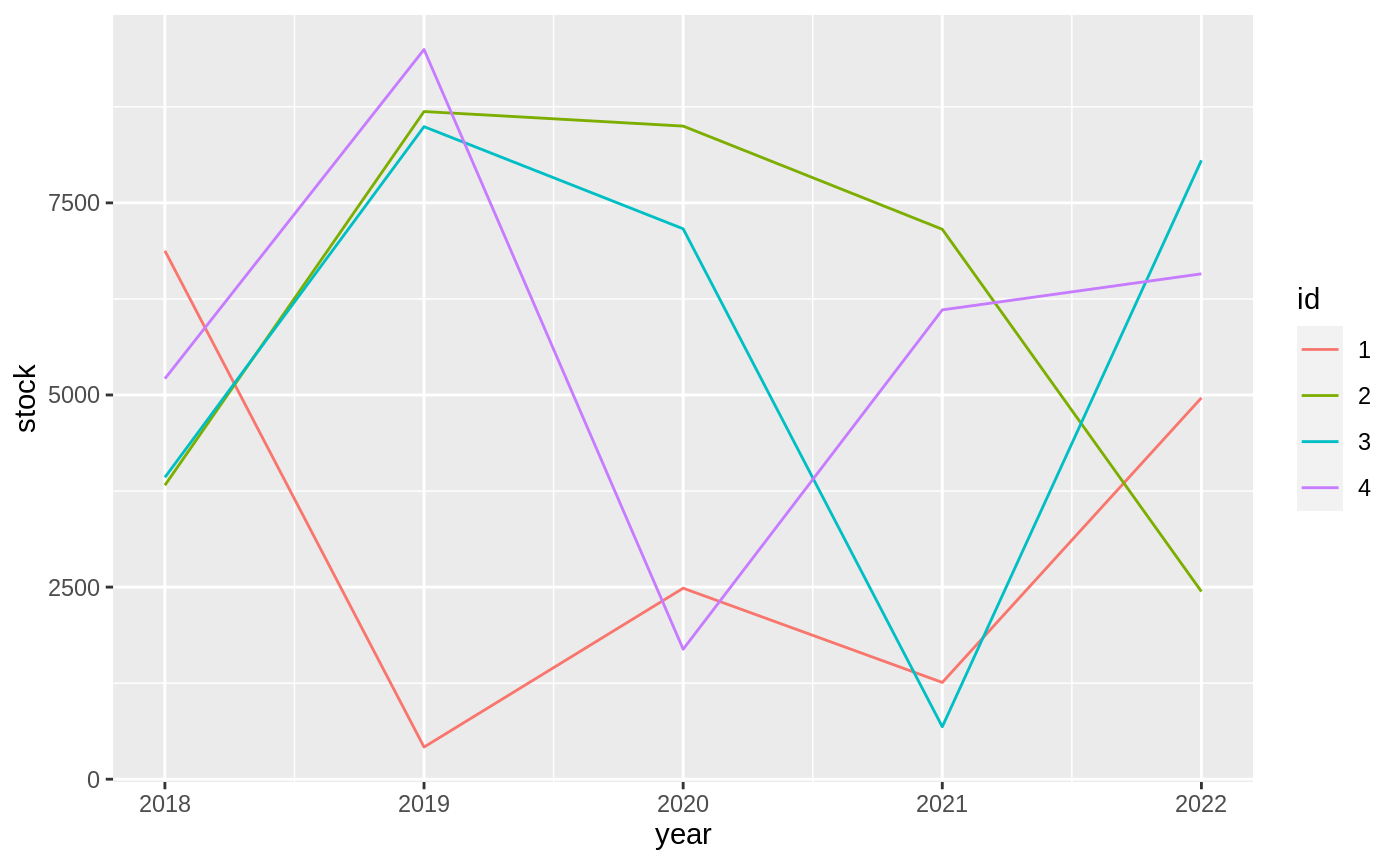
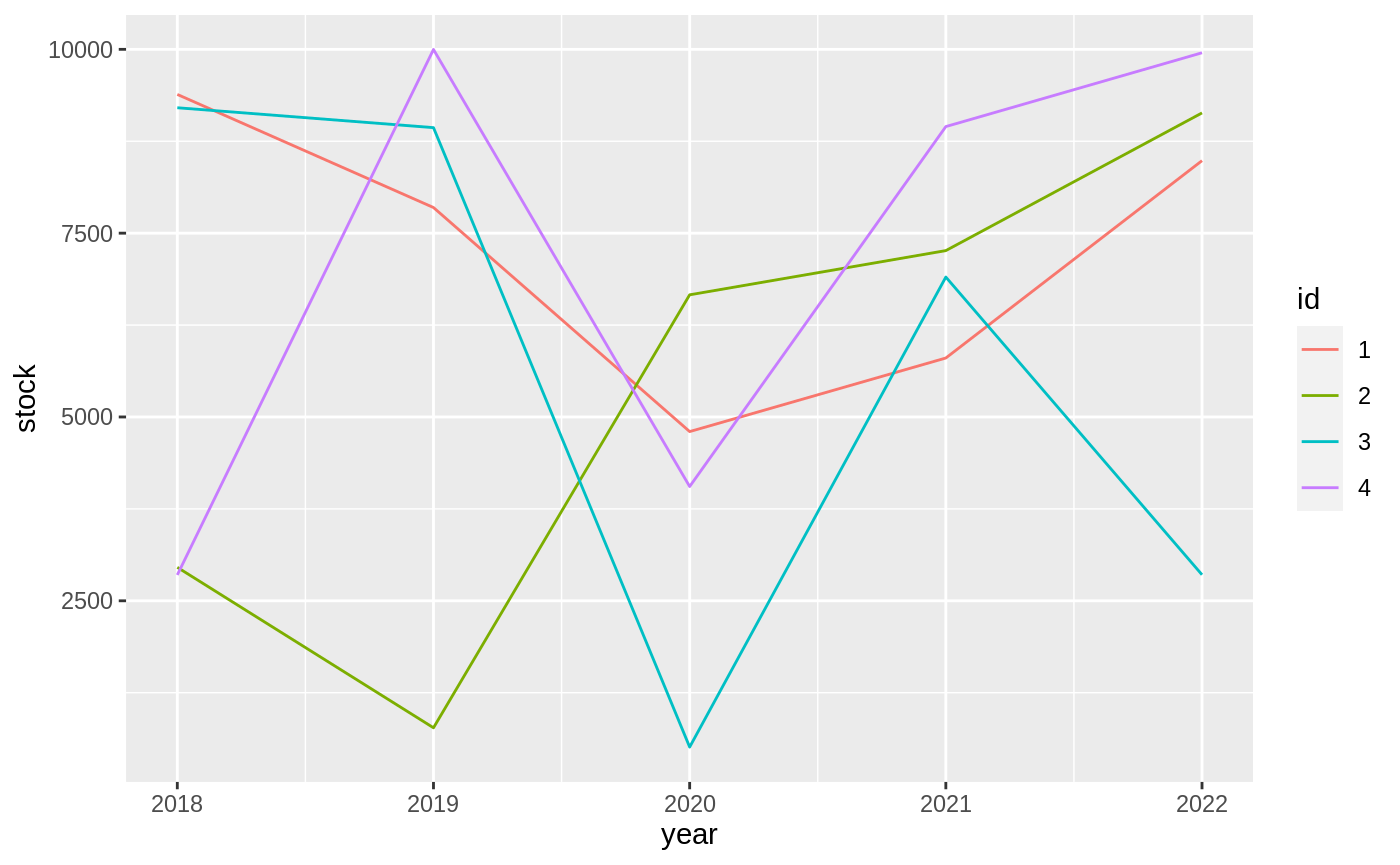
Built site for tibble: 3.0.4.9000@0775718

diff --git a/dev/articles/formats.html b/dev/articles/formats.html
@@ -221,10 +221,10 @@
 <span class="co">#&gt; # A tibble: 4 x 6</span>
 <span class="co">#&gt;   id       `2018`    `2019`    `2020`    `2021`    `2022`</span>
 <span class="co">#&gt;   &lt;fct&gt; &lt;dbl:fmt&gt; &lt;dbl:fmt&gt; &lt;dbl:fmt&gt; &lt;dbl:fmt&gt; &lt;dbl:fmt&gt;</span>
-<span class="co">#&gt; 1 1     $6,876.46   $418.27 $2,485.38 $1,259.02 $4,963.22</span>
-<span class="co">#&gt; 2 2     $3,825.28 $8,688.63 $8,498.96 $7,156.30 $2,442.04</span>
-<span class="co">#&gt; 3 3     $3,927.93 $8,491.54 $7,162.53   $682.55 $8,053.97</span>
-<span class="co">#&gt; 4 4     $5,212.09 $9,496.11 $1,691.39 $6,107.63 $6,576.90</span></code></pre></div>
+<span class="co">#&gt; 1 1     $9,386.70 $7,848.50 $4,801.62 $5,802.21 $8,486.21</span>
+<span class="co">#&gt; 2 2     $2,955.06   $773.20 $6,661.64 $7,263.02 $9,135.57</span>
+<span class="co">#&gt; 3 3     $9,205.72 $8,935.08   $511.01 $6,902.99 $2,854.26</span>
+<span class="co">#&gt; 4 4     $2,851.74 $9,998.04 $4,054.39 $8,949.80 $9,953.54</span></code></pre></div>
 <p>For ggplot2 we need to do <a href="https://github.com/tidyverse/ggplot2/pull/4065">some work</a> to show apply the formatting to the scales.</p>
 <div class="sourceCode" id="cb6"><pre class="downlit sourceCode r">
 <code class="sourceCode R"><span class="kw"><a href="https://rdrr.io/r/base/library.html">library</a></span><span class="op">(</span><span class="va"><a href="http://ggplot2.tidyverse.org">ggplot2</a></span><span class="op">)</span>
@@ -235,10 +235,10 @@
   <span class="fu"><a href="https://ggplot2.tidyverse.org/reference/geom_path.html">geom_line</a></span><span class="op">(</span><span class="op">)</span></code></pre></div>
 <p><img src="formats_files/figure-html/unnamed-chunk-7-1.png" width="700"></p>
 <p>It pays off to specify formatting very early in the process. The diagram below shows the principal stages of data analysis and exploration from “R for data science”.</p>
-<div id="htmlwidget-c26b7b0fcee28b90d5e2" style="width:700px;height:432.632880098888px;" class="DiagrammeR html-widget"></div>
-<script type="application/json" data-for="htmlwidget-c26b7b0fcee28b90d5e2">{"x":{"diagram":"graph TD\n  Import --> Tidy\n  Tidy --> Transform\n  Transform --> Visualize\n  Visualize --> Communicate\n  Visualize --> Model\n  Model -.-> Transform"},"evals":[],"jsHooks":[]}</script><p>The subsequent diagram adds data formats, communication options, and explicit data formatting. The original r4ds transitions are highlighted in bold. There are two principal options where to apply formatting for results: right before communicating them, or right after importing.</p>
-<div id="htmlwidget-74d3e23187afde308fda" style="width:700px;height:432.632880098888px;" class="DiagrammeR html-widget"></div>
-<script type="application/json" data-for="htmlwidget-74d3e23187afde308fda">{"x":{"diagram":"graph TD\n  .csv --> Import\n  API --> Import\n  DBI --> Import\n  dbplyr --> Import\n  Import -.-> Format[Format for analysis]\n  Format -.-> Tidy\n\n  subgraph r4ds\n  Import ==> Tidy\n  Tidy ==> Transform\n  Transform ==> Visualize\n  Visualize ==> Model\n  Model -.-> Transform\n  Visualize ==> Communicate\n  end\n\n  Visualize -.-> FormatComm[Format for communication]\n  FormatComm -.-> Communicate\n\n  FormatComm -- Apply formatting early --> Format\n\n  dbplyr -.-> Tidy\n  dbplyr -.-> Transform\n  dbplyr -.-> Visualize\n\n  Communicate --> gt\n  Communicate --> ggplot2\n  Communicate --> DT\n  Communicate --> plotly"},"evals":[],"jsHooks":[]}</script><p>Applying formatting early in the process gives the added benefit of showing the data in a useful format during the “Tidy”, “Transform”, and “Visualize” stages. For this to be useful, we need to ensure that the formatting options applied early:</p>
+<div id="htmlwidget-bbb61047c808c1d3c459" style="width:700px;height:432.632880098888px;" class="DiagrammeR html-widget"></div>
+<script type="application/json" data-for="htmlwidget-bbb61047c808c1d3c459">{"x":{"diagram":"graph TD\n  Import --> Tidy\n  Tidy --> Transform\n  Transform --> Visualize\n  Visualize --> Communicate\n  Visualize --> Model\n  Model -.-> Transform"},"evals":[],"jsHooks":[]}</script><p>The subsequent diagram adds data formats, communication options, and explicit data formatting. The original r4ds transitions are highlighted in bold. There are two principal options where to apply formatting for results: right before communicating them, or right after importing.</p>
+<div id="htmlwidget-63de8059c25d8e97ba11" style="width:700px;height:432.632880098888px;" class="DiagrammeR html-widget"></div>
+<script type="application/json" data-for="htmlwidget-63de8059c25d8e97ba11">{"x":{"diagram":"graph TD\n  .csv --> Import\n  API --> Import\n  DBI --> Import\n  dbplyr --> Import\n  Import -.-> Format[Format for analysis]\n  Format -.-> Tidy\n\n  subgraph r4ds\n  Import ==> Tidy\n  Tidy ==> Transform\n  Transform ==> Visualize\n  Visualize ==> Model\n  Model -.-> Transform\n  Visualize ==> Communicate\n  end\n\n  Visualize -.-> FormatComm[Format for communication]\n  FormatComm -.-> Communicate\n\n  FormatComm -- Apply formatting early --> Format\n\n  dbplyr -.-> Tidy\n  dbplyr -.-> Transform\n  dbplyr -.-> Visualize\n\n  Communicate --> gt\n  Communicate --> ggplot2\n  Communicate --> DT\n  Communicate --> plotly"},"evals":[],"jsHooks":[]}</script><p>Applying formatting early in the process gives the added benefit of showing the data in a useful format during the “Tidy”, “Transform”, and “Visualize” stages. For this to be useful, we need to ensure that the formatting options applied early:</p>
 <ul>
 <li>give a good user experience for analysis
 <ul>

diff --git a/dev/articles/types.html b/dev/articles/types.html
@@ -350,8 +350,8 @@
 #&gt; $ `named list`  &lt;named list&gt; [1]
 #&gt; $ factor        &lt;fct&gt; A
 #&gt; $ ordered       &lt;ord&gt; a
-#&gt; $ Date          &lt;date&gt; 2020-12-01
-#&gt; $ POSIXt        &lt;dttm&gt; 2020-12-01 13:28:09
+#&gt; $ Date          &lt;date&gt; 2020-12-07
+#&gt; $ POSIXt        &lt;dttm&gt; 2020-12-07 10:18:32
 #&gt; $ difftime      &lt;drtn&gt; 1 secs
 #&gt; $ hms           &lt;time&gt; 00:00:01
 #&gt; $ integer64     &lt;int64&gt; 10000000000
@@ -381,7 +381,7 @@
 <span class="co">#&gt;             "sym"</span>
 <span class="co">#&gt;         }, typeof(x))</span>
 <span class="co">#&gt; }</span>
-<span class="co">#&gt; &lt;bytecode: 0x55972bd03a80&gt;</span>
+<span class="co">#&gt; &lt;bytecode: 0x560c32381a80&gt;</span>
 <span class="co">#&gt; &lt;environment: namespace:pillar&gt;</span></code></pre></div>
 </div>
   </div>
